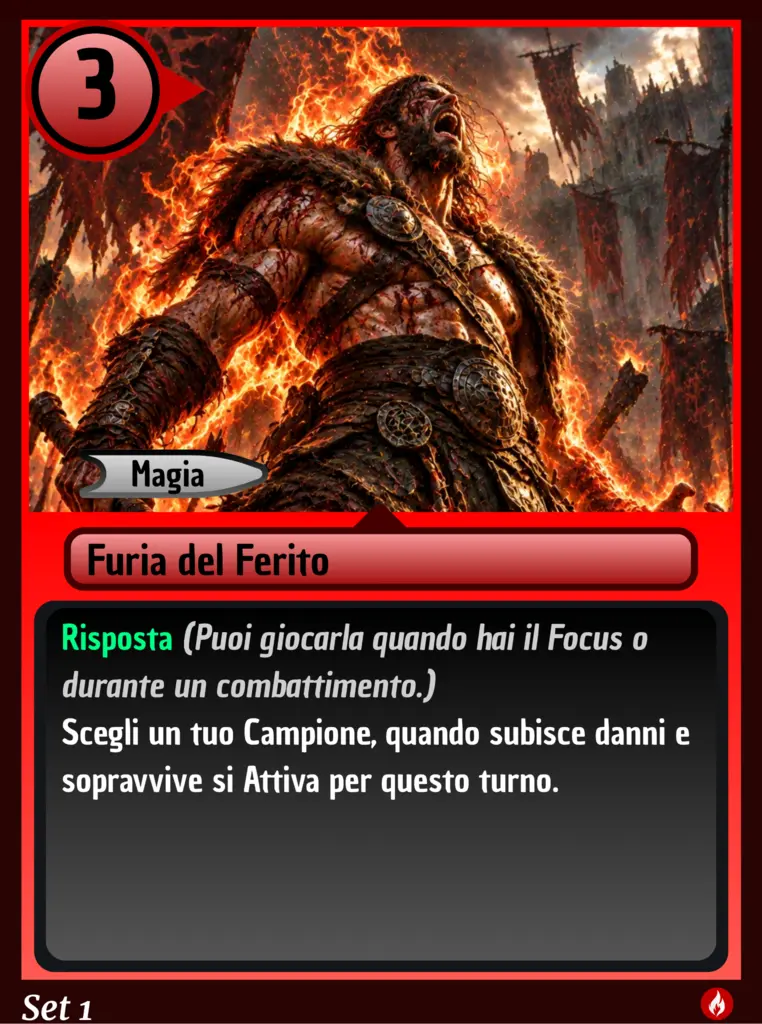
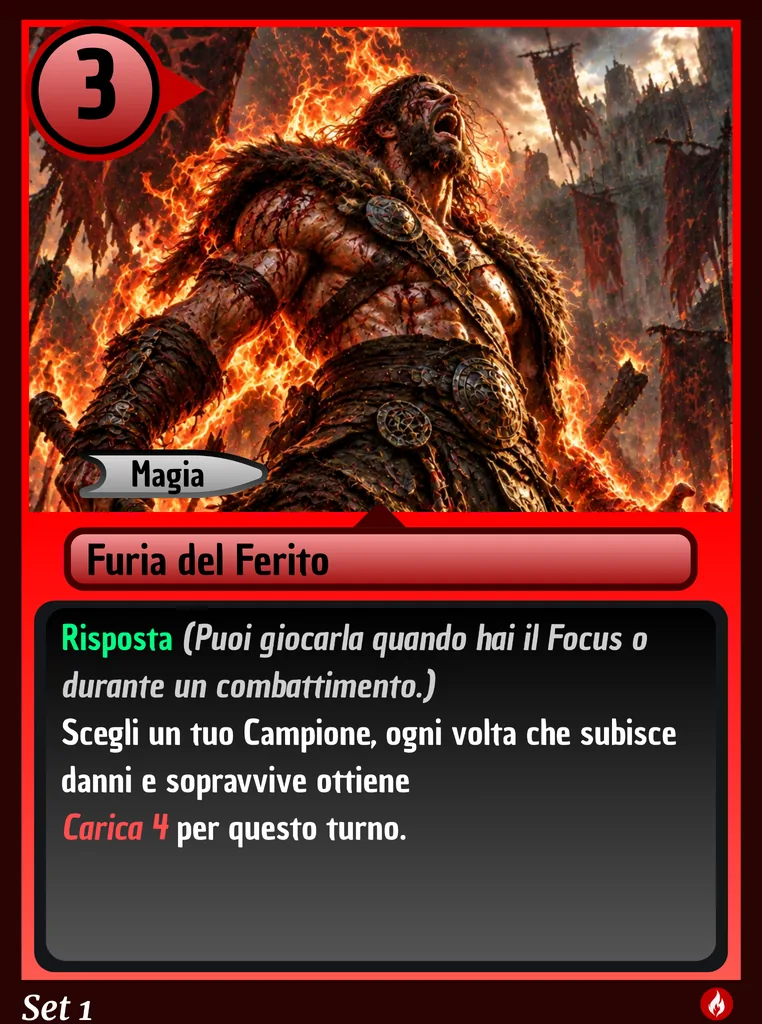
Preserve combat priority during Valtheris cleanup and update Furia del Ferito to Carica 4

diff --git a/soulforge/index.html b/soulforge/index.html
@@ -22,7 +22,7 @@
     html=html.replace('</body>','<script src="/ui-v2.js?v=10"><\/script><script src="/combat-rules-v28.js?v=2"><\/script><script src="/right-click-preview.js?v=8"><\/script><script src="/grave-targets-v4.js?v=3"><\/script><script src="/interaction-v5.js?v=3"><\/script><script src="/targeting-v8.js?v=2"><\/script><script src="/specchio-stack-fix.js?v=1"><\/script><script src="/stability-v10.js?v=2"><\/script><script src="/hand-v11.js?v=9"><\/script><script src="/alta-marea-v13.js?v=1"><\/script><script src="/selection-v16.js?v=2"><\/script><script src="/set1-v17.js?v=7"><\/script><script src="/blue-v22-loader.js?v=10"><\/script><script src="/deck-builder-v27-loader.js?v=11"><\/script><script src="/deck-builder-visual-fix-v71.js?v=10"><\/script><script src="/deck-preview-details-v76.js?v=1"><\/script><script src="/new-monsters-details-v78.js?v=3"><\/script><script src="/attack-arrow-v20.js?v=2"><\/script><script src="/rules-v23.js?v=2"><\/script><script src="/provocation-v24.js?v=4"><\/script><script src="/targeting-standard-v27.js?v=1"><\/script><script src="/fantasy-board-v29.js?v=2"><\/script><script src="/fantasy-board-v30.js?v=3"><\/script><script src="/fantasy-board-v31.js?v=3"><\/script><script src="/preview-conflict-v37.js?v=1"><\/script><script src="/preview-cleanup-v38.js?v=1"><\/script><script src="/coin-hand-v40.js?v=2"><\/script><script src="/card-hud-v41.js?v=2"><\/script><script src="/festa-art-v42.js?v=1"><\/script><script src="/combat-priority-v44.js?v=2"><\/script><script src="/turn-effects-v45.js?v=1"><\/script><script src="/new-cards-v46.js?v=10"><\/script><script src="/new-card-runtime-v47.js?v=5"><\/script><script src="/deck-builder-filters-v48.js?v=4"><\/script><script src="/rules-priority-grave-v49.js?v=4"><\/script><script src="/gameover-rematch-v50.js?v=1"><\/script><script src="/taglio-fiammante-v51.js?v=1"><\/script><script src="/nube-di-fuoco-v52.js?v=1"><\/script><script src="/orange-safe-v1.js?v=3"><\/script><script src="/orange-ui-v2.js?v=3"><\/script><script src="/compact-champions-v61.js?v=2"><\/script><script src="/pugno-target-v62.js?v=2"><\/script><script src="/champion-target-v63.js?v=1"><\/script><script src="/festa-fix-v64.js?v=1"><\/script><script src="/no-target-cast-v65.js?v=1"><\/script><script src="/game-interaction-lock-v66.js?v=1"><\/script><script src="/grave-art-v67.js?v=5"><\/script><script src="/scatola-incantata-v75.js?v=1"><\/script><script src="/new-set-v70.js?v=3"><\/script><script src="/new-set-art-v73.js?v=10"><\/script><script src="/latest-set-v82.js?v=5"><\/script><script src="/new-monsters-v77.js?v=2"><\/script><script src="/hand-input-v69.js?v=3"><\/script></body>');
     html=html.replace('<script src="/hand-input-v69.js?v=3"><\/script>','<script src="/target-images-v83.js?v=1"><\/script><script src="/new-monsters-wave15-v84.js?v=4"><\/script><script src="/hand-input-v69.js?v=3"><\/script>');
     html=html.replace('/blue-v22-loader.js?v=10','/blue-v22-loader.js?v=13');
-    html=html.replace('</body>','<script type="module" src="/september-ui.js?v=5"><\/script></body>');
+    html=html.replace('</body>','<script type="module" src="/september-ui.js?v=furia-charge4-1"><\/script></body>');
     document.open();document.write(html);document.close();
   }catch(e){
     document.getElementById('status').className='err';

diff --git a/soulforge/september-catalog.js b/soulforge/september-catalog.js
@@ -5,7 +5,7 @@ export const cards = [
  ['colpo_al_cuore','Colpo al Cuore','red',2,'base','enemyChampion','Scegli un Campione nemico. La prima volta che subisce una Ferita in questo turno ne subisce un’altra.'],
  ['linfa_vitale','Linfa vitale','green',0,'instant','own','Cura 2 danni a un tuo Campione.'],
  ['furia_della_selva','Furia della Selva','green',1,'base','enemyChampion','Evoca il Mostro in cima al tuo Monster Deck: attacca il Campione nemico scelto.'],
- ['furia_del_ferito','Furia del Ferito','red',3,'response','own','Per questo turno, ogni volta che il tuo Campione scelto subisce danni e sopravvive, si attiva.'],
+ ['furia_del_ferito','Furia del Ferito','red',3,'response','own','Scegli un tuo Campione. Per questo turno, ogni volta che subisce danni e sopravvive, ottiene Carica 4.'],
  ['sigillo_dell_oblio','Sigillo dell’Oblio','black',0,'base','monster','Infliggi 1 danno a un Mostro. Se muore durante questo turno non fornisce anime.'],
  ['scaglie_di_gelo','Scaglie di Gelo','blue',0,'base','monster','Fornisci 3 Armatura a un Mostro per questo turno.'],
  ['fortezza_di_cristallo','Fortezza di Cristallo','blue',1,'base','character','Raddoppia l’Armatura di un Personaggio per questo turno.'],
@@ -17,7 +17,7 @@ export const cards = [
  ['egida_d_acciaio','Egida D’acciaio','orange',0,'base','character','Fornisci 2 Armatura a un Personaggio per questo turno.'],
  ['stendardi_della_legione_dorata','Stendardi della Legione Dorata','orange',0,'base','own','Fornisci Contrattacco a un tuo Campione per questo turno.'],
  ['carica_degli_impavidi','Carica degli Impavidi','orange',0,'base','none','Fornisci Carica 1 a tutti i tuoi Supporti per questo turno.']
-].map(([id,name,color,cost,speed,target,text])=>({id,name,color,cost,speed,target,text,type:'Magia',effect:'september_'+id,art:id.replaceAll('_','-')+'.webp'}));
+].map(([id,name,color,cost,speed,target,text])=>({id,name,color,cost,speed,target,text,type:'Magia',effect:'september_'+id,art:id.replaceAll('_','-')+'.webp'+(id==='furia_del_ferito'?'?rev=charge4-20260917':'')}));
 export const monsters=[
  {id:'vampiro',name:'Vampiro',color:'black',pow:3,text:'Quando entra in gioco uccide il Mostro alla sua destra.',art:'vampiro.webp'},
  {id:'abominio_ricucito',name:'Abominio Ricucito',color:'black',pow:3,text:'Quando un altro Mostro muore, fornisce +1 POW a tutti gli altri Mostri per questo turno.',art:'abominio-ricucito.webp'}

diff --git a/soulforge/game-v61-loader.ts b/soulforge/game-v61-loader.ts
@@ -59,7 +59,7 @@ R.resolve=(s:any,item:any)=>{
   const m=E.addMonster(s,cardId,p);
   s.septemberCombat={initiator:p,attacker:{type:'monster',player:p,uid:m.uid},target:t.target,cancelled:false};break;
  }
- case'furia_del_ferito':x.reactivateDamageTurn=s.turn;break;
+ case'furia_del_ferito':x.chargeOnDamageTurn=s.turn;break;
  case'sigillo_dell_oblio':x.noSoulsTurn=s.turn;damage(s,p,t.target,1+(player(s,p).fireCloud?1:0),d.name);break;
  case'scaglie_di_gelo':x.armor=Number(x.armor||0)+3;break;
  case'fortezza_di_cristallo':x.armor=Number(x.armor||0)*2;break;
@@ -101,7 +101,7 @@ export function act(s:any,p:any,move:any){
   base.promote(s);
  }
  if(s.turn!==turn)for(const owner of [1,2])for(const c of player(s,owner)?.champions||[])
-  for(const k of ['immuneDamageTurn','extraWoundTurn','reactivateDamageTurn','chargeTurn','charge','septemberCounterTurn'])delete c[k];
+  for(const k of ['immuneDamageTurn','extraWoundTurn','reactivateDamageTurn','chargeOnDamageTurn','chargeTurn','charge','septemberCounterTurn'])delete c[k];
  readyCombat(s);
  // A normal declared attack always opens the first response window for the defender.
  // Re-assert it after all wrappers have run, but only when no trigger/choice/stack is

diff --git a/soulforge/september-core.ts b/soulforge/september-core.ts
@@ -23,7 +23,10 @@ const oldDamage61=damageChampion;
 damageChampion=function(s,p,id,n,source=''){
  const c=champ(s,p,id);if(c?.immuneDamageTurn===s.turn||rules61.prevent?.(s,p,c))return {wounded:false};
  const old=Number(c?.damage||0),w=Number(c?.wounds||0),out=oldDamage61(s,p,id,n,source);
- if(c&&!c.defeated&&c.reactivateDamageTurn===s.turn&&(c.damage>old||c.wounds>w))c.tapped=false;
+ if(c&&!c.defeated&&c.chargeOnDamageTurn===s.turn&&(c.damage>old||c.wounds>w)){
+  c.charge=(c.chargeTurn===s.turn?Number(c.charge||0):0)+4;c.chargeTurn=s.turn;
+  log(s,c.name+' ottiene Carica 4 grazie a Furia del Ferito.');
+ }
  rules61.damage?.(s,p,c,old,w);return out;
 };
 const oldWound61=woundChampion;

diff --git a/soulforge/game-v58-loader.ts b/soulforge/game-v58-loader.ts
@@ -20,7 +20,7 @@ function removeLegacyAutoTrigger(s:any){
  if(Array.isArray(s._v48Triggers))s._v48Triggers=s._v48Triggers.filter((x:any)=>!isLegacy(x));
  if(Array.isArray(s.stack))s.stack=s.stack.filter((x:any)=>!isLegacy(x));
  if(isLegacy(s.pendingChoice))s.pendingChoice=null;
- if(!s.pendingChoice&&!s.stack?.length){s.priority=null;s.priorityPasses=0;}
+ if(!s.pendingChoice&&!s.stack?.length&&!s.combat){s.priority=null;s.priorityPasses=0;}
 }
 function applyTurnStartArmor(s:any){
  if(s?.status!=='main')return;

diff --git a/soulforge/september-ui.js b/soulforge/september-ui.js
@@ -1,4 +1,4 @@
-import {cards as firstCards,monsters as firstMonsters} from './september-catalog.js';
+import {cards as firstCards,monsters as firstMonsters} from './september-catalog.js?v=furia-charge4-1';
 import {cards as newCards,monsters as newMonsters} from './new20-catalog.js';
 import {cards as batch3Cards} from './batch3-catalog.js';
 const cards=[...firstCards,...newCards,...batch3Cards],monsters=[...firstMonsters,...newMonsters];
